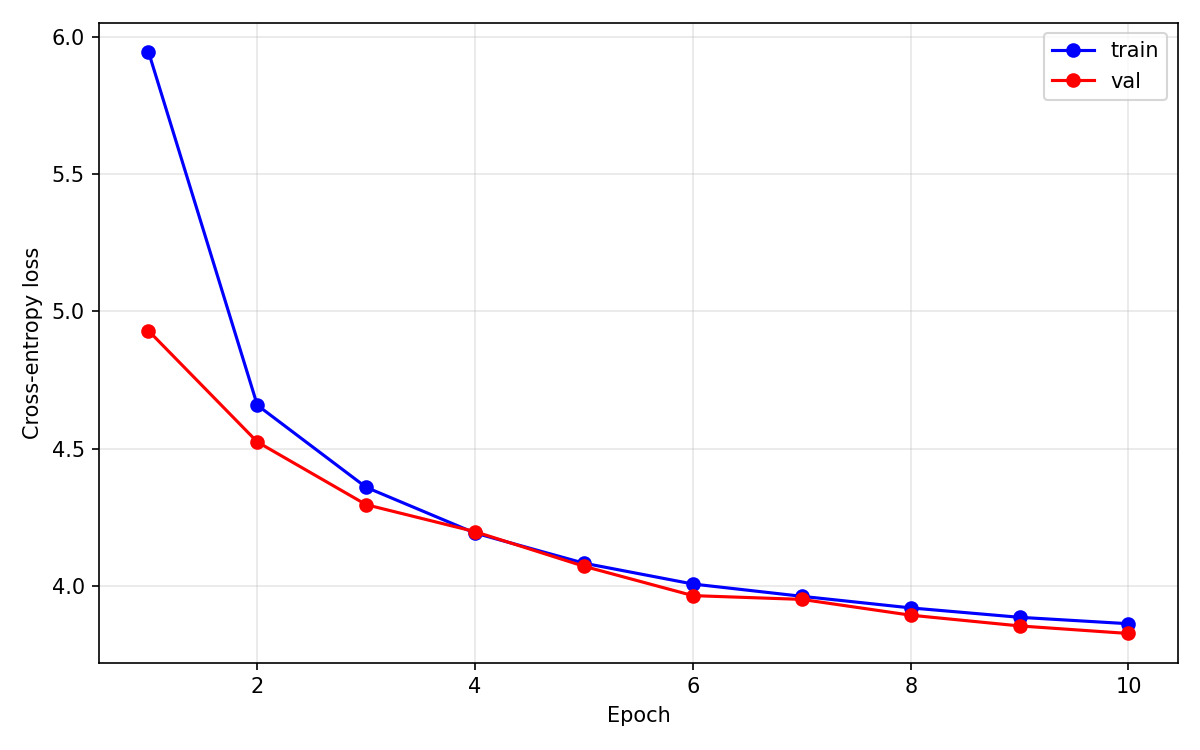
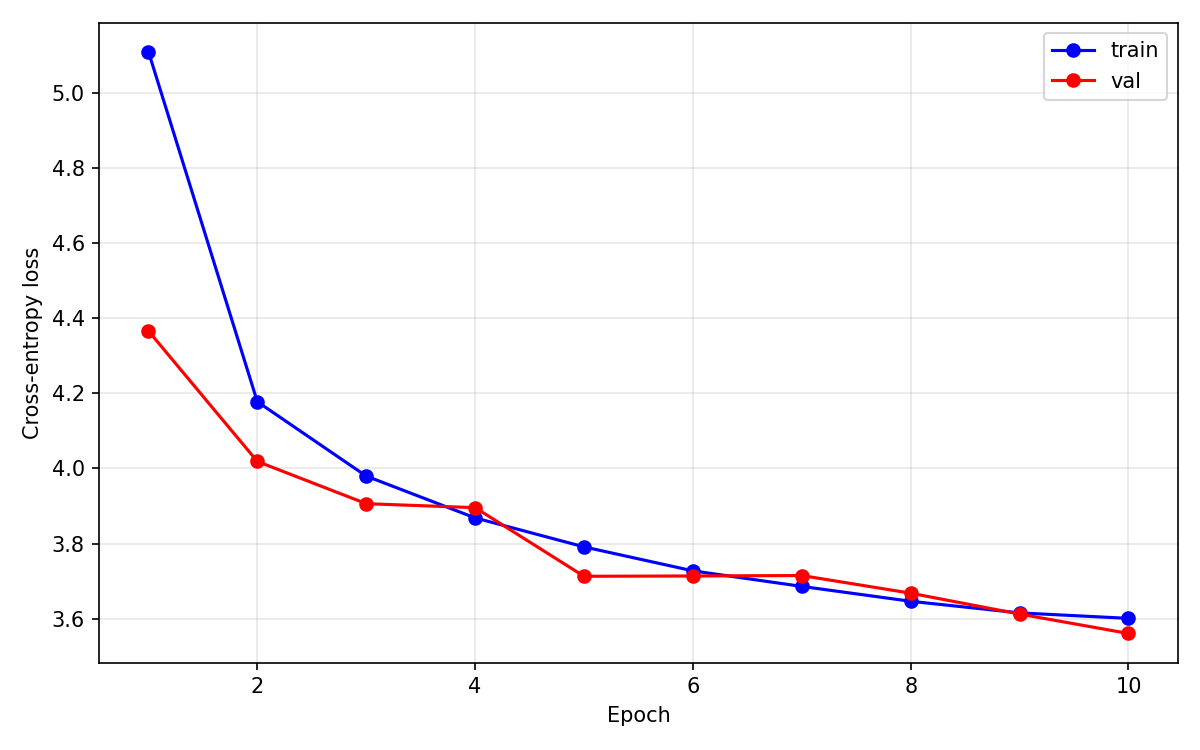
v1.6: i dont remember what i did

diff --git a/prepare_pretraining_data.py b/prepare_pretraining_data.py
@@ -25,7 +25,7 @@ from tqdm import tqdm
 
 from llm import LLMConfig
 
-MAX_DOCS = 1000
+MAX_DOCS = 100_000
 TOKENIZER_PATH = "tokenizer/tokenizer.json"
 TOKENIZER_CONFIG_PATH = "tokenizer/tokenizer_config.json"
 
@@ -295,9 +295,7 @@ class ShardedTokenDataset:
             if slot["event"] is not None:
                 slot["event"].synchronize()
 
-            self._fill_one(
-                slot["x_np"], slot["y_np"], batch_size, context_len, rng
-            )
+            self._fill_one(slot["x_np"], slot["y_np"], batch_size, context_len, rng)
 
             # Async H2D, then record an event so the consumer's stream can
             # wait on it. Issued from this thread; the event carries the
@@ -467,12 +465,14 @@ if __name__ == "__main__":
         print(
             f"[tokenizer] vocab_size = {tokenizer.get_vocab_size()}, eot_id = {eot_id}"
         )
-        exit()
 
     SHARD_SIZE = 250_000_000  # ~1GB per shard at uint32
+    MAX_TRAIN_TOKENS = 1_000_000_000  # ~10% of fineweb sample-10BT; ~3x training headroom
     VAL_EVERY = 1000
     STATUS_EVERY = 50_000  # high-level progress print every N docs
-    NPROCS = max(2, (os.cpu_count() or 4) - 2)
+    # 8 workers is plenty for tokenization throughput. Higher counts blew up
+    # RSS via fork()'d HF dataset state and Rayon thread mutexes (deadlock).
+    NPROCS = min(8, max(2, (os.cpu_count() or 4) - 2))
     WORKER_BATCH = 64  # docs per task sent to a worker; amortizes IPC
 
     def encode_both_splits():
@@ -484,10 +484,19 @@ if __name__ == "__main__":
         out_dir = "dataset/fineweb"
         os.makedirs(out_dir, exist_ok=True)
 
+        # Wipe any prior shards so a smaller re-run can't leave stale tail
+        # shards lying around from a previous larger encode.
+        stale = sorted(glob.glob(os.path.join(out_dir, "fineweb_*.bin")))
+        if stale:
+            print(f"[encode] removing {len(stale)} stale shard file(s)")
+            for p in stale:
+                os.remove(p)
+
         print(f"[encode] output dir: {out_dir}/")
         print(
             f"[encode] shard size = {SHARD_SIZE:,} tokens (~{SHARD_SIZE * 4 / 1e9:.1f}GB each)"
         )
+        print(f"[encode] cap = {MAX_TRAIN_TOKENS:,} train tokens (~{MAX_TRAIN_TOKENS * 4 / 1e9:.1f}GB)")
         print(f"[encode] {NPROCS} workers, worker_batch = {WORKER_BATCH}")
         print(f"[encode] val ratio = 1/{VAL_EVERY}")
 
@@ -553,15 +562,19 @@ if __name__ == "__main__":
         last_status_docs = 0
         processed = 0
 
-        # fork is the default on Linux and skips re-import overhead. The worker
-        # initializer pins each child to RAYON_NUM_THREADS=1 before it loads
-        # the tokenizer, so per-process Rayon doesn't oversubscribe the box.
-        ctx = mp.get_context("fork")
+        # spawn (not fork): fork copies the parent's Rayon thread pool and HF
+        # `datasets` state into every child, which both balloons RSS and
+        # deadlocks on mutexes the non-calling threads were holding. spawn
+        # re-imports the module in a clean child interpreter — _worker_init
+        # then pins Rayon to 1 thread before loading the tokenizer.
+        ctx = mp.get_context("spawn")
         with ctx.Pool(
             processes=NPROCS,
             initializer=_worker_init,
             initargs=(TOKENIZER_PATH,),
+            maxtasksperchild=50,  # recycle workers so any per-task creep gets freed
         ) as pool:
+            stop_consuming = False
             try:
                 for results in pool.imap_unordered(
                     _worker_encode_batch, doc_batches(), chunksize=2
@@ -571,13 +584,19 @@ if __name__ == "__main__":
                         append(split, arr)
                         processed += 1
 
+                        if state["train"]["total_tokens"] >= MAX_TRAIN_TOKENS:
+                            print(
+                                f"[encode] hit cap: {state['train']['total_tokens']:,} "
+                                f">= {MAX_TRAIN_TOKENS:,} train tokens"
+                            )
+                            stop_consuming = True
+                            break
+
                         if processed % STATUS_EVERY == 0:
                             now = time.time()
                             interval_docs = processed - last_status_docs
                             interval_dt = now - last_status
-                            rate = (
-                                interval_docs / interval_dt if interval_dt > 0 else 0
-                            )
+                            rate = interval_docs / interval_dt if interval_dt > 0 else 0
                             elapsed_min = (now - t_start) / 60
                             print(
                                 f"[status] doc {processed:,} | {rate:.0f} docs/s | "
@@ -589,7 +608,13 @@ if __name__ == "__main__":
                             )
                             last_status = now
                             last_status_docs = processed
-                print(f"[encode] stream exhausted")
+                    if stop_consuming:
+                        break
+                if stop_consuming:
+                    print(f"[encode] cap reached, terminating workers")
+                    pool.terminate()  # don't drain the rest of the stream
+                else:
+                    print(f"[encode] stream exhausted")
             finally:
                 print(f"[encode] finalizing...")
                 for split, s in state.items():

diff --git a/train.py b/train.py
@@ -20,14 +20,14 @@ val_dataset = ShardedTokenDataset("val")
 
 @dataclass
 class TrainConfig:
-    RUN_NAME: str = "v1.5"
+    RUN_NAME: str = "v1.6"
     epochs = 10
-    train_steps = 4500
+    train_steps = 500
     val_steps = 100
-    batch_size = 64
+    batch_size = 192
     val_interval = 1  # Epoch between val intervals
-    peak_lr: float = 1e-4
-    lr_warmup: int = 200
+    peak_lr: float = 1e-3
+    lr_warmup: int = 1
     min_lr_ratio: float = 0.2
 
 
@@ -36,8 +36,14 @@ def train(model, train_dataloader, val_dataloader, train_config):
 
     model = model.to("cuda")
     total_params = param_breakdown(model)
-    model = torch.compile(model)
-    optimizer = AdamW(model.parameters(), lr=train_config.peak_lr)
+    model = torch.compile(model, mode="reduce-overhead")
+    optimizer = AdamW(
+        model.parameters(),
+        lr=train_config.peak_lr,
+        betas=(0.9, 0.95),
+        weight_decay=0.1,
+        fused=True,
+    )
     losses = []
     val_losses = []
     check_point_path = f"./checkpoints/{train_config.RUN_NAME}"
@@ -76,7 +82,7 @@ def train(model, train_dataloader, val_dataloader, train_config):
             torch.cuda.synchronize()
             epoch_start = time.perf_counter()
 
-        train_loss = 0
+        loss_accum = torch.zeros((), device="cuda")
         for step in tqdm(range(train_config.train_steps)):
             if is_last_epoch:
                 torch.cuda.synchronize()
@@ -96,17 +102,18 @@ def train(model, train_dataloader, val_dataloader, train_config):
                 loss = F.cross_entropy(preds.view(-1, preds.size(-1)), y.view(-1))
 
             loss.backward()
+            torch.nn.utils.clip_grad_norm_(model.parameters(), 1.0)
             optimizer.step()
             scheduler.step()
             optimizer.zero_grad()
-            x.to("cpu")
-            y.to("cpu")
+            # x.to("cpu")
+            # y.to("cpu")
 
             if is_last_epoch:
                 torch.cuda.synchronize()
                 model_total += time.perf_counter() - t_model_start
 
-            train_loss += loss.item()
+            loss_accum += loss.detach()
 
         if is_last_epoch:
             torch.cuda.synchronize()
@@ -119,12 +126,13 @@ def train(model, train_dataloader, val_dataloader, train_config):
                 x, y = val_dataloader.get_batch(
                     train_config.batch_size, model.config.seq_len, device="cuda"
                 )
-                preds = model(x)
-                loss = F.cross_entropy(preds.view(-1, preds.size(-1)), y.view(-1))
+                with torch.autocast(device_type="cuda", dtype=torch.bfloat16):
+                    preds = model(x)
+                    loss = F.cross_entropy(preds.view(-1, preds.size(-1)), y.view(-1))
                 val_loss += loss.item()
         model.train()
 
-        avg_train_l = train_loss / train_config.train_steps
+        avg_train_l = loss_accum.item() / train_config.train_steps
         avg_val_l = val_loss / train_config.val_steps
         train_ppl = math.exp(avg_train_l)
         val_ppl = math.exp(avg_val_l)

diff --git a/llm.py b/llm.py
@@ -8,11 +8,11 @@ import torch.nn.functional as F
 
 @dataclass
 class LLMConfig:
-    n_dim = 512  # Dimensions of the token vectors
-    n_layers = 6  # Number of layers in the language model
-    n_heads = 16
-    vocab_size = 4096  # Number of unique tokens
-    seq_len = 128  # Context length
+    n_dim: int = 512  # Dimensions of the token vectors
+    n_layers: int = 8  # Number of layers in the language model
+    n_heads: int = 16
+    vocab_size: int = 16382  # Number of unique tokens
+    seq_len: int = 512  # Context length
 
 
 class Layer(nn.Module):
@@ -21,13 +21,14 @@ class Layer(nn.Module):
         self.config = config
         assert self.config.n_dim % self.config.n_heads == 0
         self.config.head_dim = self.config.n_dim // self.config.n_heads
-        self.qkv = nn.Linear(self.config.n_dim, self.config.n_dim * 3)
-        self.norm1 = nn.LayerNorm(normalized_shape=self.config.n_dim)
-        self.norm2 = nn.LayerNorm(normalized_shape=self.config.n_dim)
+        self.qkv = nn.Linear(self.config.n_dim, self.config.n_dim * 3, bias=False)
+        self.mix = nn.Linear(self.config.n_dim, self.config.n_dim, bias=False)
+        self.norm1 = nn.RMSNorm(normalized_shape=self.config.n_dim)
+        self.norm2 = nn.RMSNorm(normalized_shape=self.config.n_dim)
         self.ffn = nn.Sequential(
-            nn.Linear(self.config.n_dim, self.config.n_dim * 4),
-            nn.ReLU(),
-            nn.Linear(self.config.n_dim * 4, self.config.n_dim),
+            nn.Linear(self.config.n_dim, self.config.n_dim * 4, bias=False),
+            nn.GELU(),
+            nn.Linear(self.config.n_dim * 4, self.config.n_dim, bias=False),
         )
         # self.register_buffer(
         #     "mask",
@@ -54,7 +55,7 @@ class Layer(nn.Module):
         # out = x + attn @ v
         attn = F.scaled_dot_product_attention(q, k, v, is_causal=causal)
         attn = attn.transpose(1, 2).contiguous().view(B, T, C)
-        out = x + attn
+        out = x + self.mix(attn)
         out = out + self.ffn(self.norm2(out))
         return out
 
@@ -67,10 +68,12 @@ class LLM(nn.Module):
             [Layer(self.config) for _ in range(self.config.n_layers)]
         )
         self.embeddings = nn.Embedding(self.config.vocab_size, self.config.n_dim)
-        self.norm = nn.LayerNorm(normalized_shape=self.config.n_dim)
+        self.norm = nn.RMSNorm(normalized_shape=self.config.n_dim)
         self.lm_head = nn.Linear(self.config.n_dim, self.config.vocab_size, bias=False)
 
-        self.register_buffer("pos_idx", torch.arange(self.config.seq_len))
+        self.register_buffer(
+            "pos_idx", torch.arange(self.config.seq_len), persistent=False
+        )
         self.pos = nn.Embedding(self.config.seq_len, self.config.n_dim)
         # self.init_std = math.sqrt(2 / self.config.n_dim)
         self.init_std = 0.02
